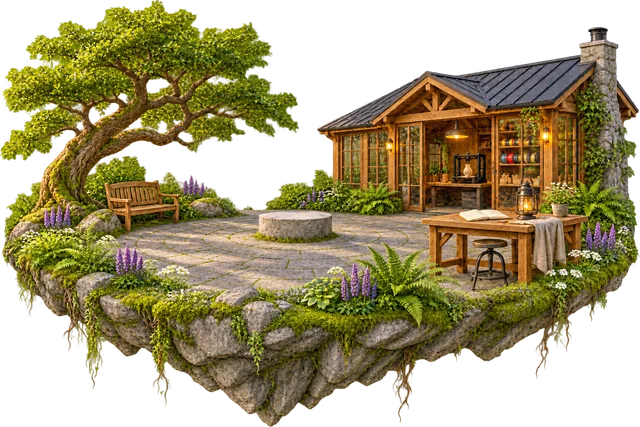
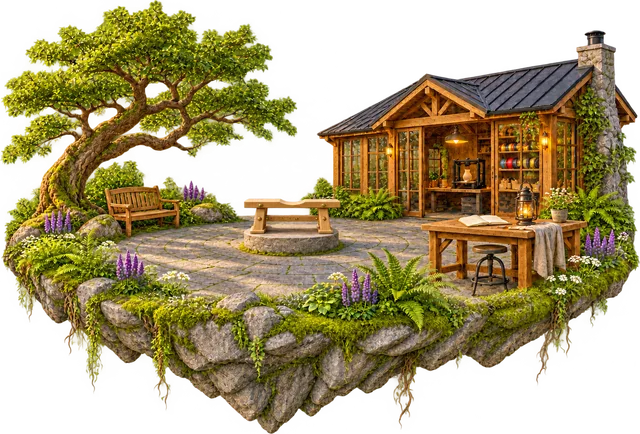
Heute-Insel mit gemaltem Holzgestell: Ring sitzt in der Mulde, gezeichnetes Gerüst entfernt
Neues Inselbild des Nutzers (Granitinsel mit kleinem Holzgestell), Maße in ISLAND_META, ASSET_VERSION 20261107d, Ringposition neu vermessen; Doku angepasst.

Claude-Session: https://claude.ai/code/session_01Bea5Y1uKo4kG3DT62iBBFM

diff --git a/src/ui/About.tsx b/src/ui/About.tsx
@@ -72,7 +72,7 @@ export function EinstellungenSheet() {
   );
 }
 
-const OK = ['Alle 17 Inselbilder vom Nutzer erzeugt (Welten, Projektwelten, Rahmen für eigene Fotos), einheitlicher heller Stil', 'Acht Projektwelten (Garten, Küche & Haushalt, Fahrzeug, Büro, Hobby, Technik, Deko, Modellbau) als Inselbilder vom Nutzer, werden im Projektformular nach Bereich und Art vorgeschlagen', 'Jahreszeiten: automatisch nach Datum (oder fest in den Einstellungen) färben die Inseln, legen eine Stimmung über die Landschaft, lassen Blütenblätter, Pollen und Glühwürmchen, Laub oder Schneestaub treiben; Startwelt zeigt Jahreszeit und Tage bis zur nächsten, Wetterwelt gibt Werkstatt-Tipps je Jahreszeit', 'Tagesportal auf der Heute-Insel: ein gezeichneter Eichenring mit Messing-Einlage auf dem Steinsockel, innen durchsichtig, und zeigt am Rand den Sonnenweg von Aufgang bis Untergang, in der Mitte die Uhr und den nächsten Lichtwechsel', 'Mobiler Begleiter: unter 900 px Breite eine eigene einfache Oberfläche mit Reitern Start, Heute, Projekte, Material, Mehr (gleiche Daten, gleiche Formulare); Tablet quer und Desktop zeigen die räumliche Werkstatt', 'Startwelt (Variante B): Uhr, Datum, Begrüßung, Wetter, Spruch, Landschaft nach Tageszeit, Inseln als Orientierung, Scrollen = Erkunden', 'Räumliche Navigation: Welten als große Inseln, aktive Welt vorn, Parallaxe, Wolken unter den Inseln, Tag/Dämmerung/Nacht nach echtem Sonnenstand', 'Echtes Wetter von Open-Meteo: aktuell, 24 h mit Temperaturkurve, 7 Tage, Tageslicht, Luftdruck, UV, Wetter-Hinweise (Regelbasiert), beste 8 Stunden nach PV-Regel des Plans', 'Projekt-Flow in fünf Schritten: Idee, Projektart (11 Arten + eigene), Einsatzbereiche (12 + eigene), Projektwelt (3 Vorschläge, eigenes Bild mit Rahmen), Details; Meilenstein-Vorlagen je Projektart; Lichtmoment im Karussell', 'Projekte-Welt: Karussell, Status an der Insel (Bereit/Blockiert/Geplant), Fortschritt, Chips, Aktuelles im Projekt, Ähnliche Projekte, Filter mit Zählern', 'Innenwelt rund um die Insel: Meilensteine, Versionen (Vergleich), Material, Drucke, Dateien, Aufgaben (mit Checklisten-Vorlagen), Werkzeuge, Bilder/3D/Notizen, Historie; Vollansichten als Seitenpanel', 'Drucke planen, Warteschlange mit Bereit/Blockiert und Wartegrund, Ergebnis Erfolg/Nacharbeit/Fehldruck (Nacharbeit → Aufgabe), Eingang mit Projektvorschlägen (hoch/mittel/niedrig), neues Projekt aus Druck, Ignorieren', 'AMS-Slots mit Füllstand, Statistiken 30 Tage, Energie-Messwerte (Messung ≠ Schätzung), Kalibrierungs-Vorlagen am Gerät', 'Material: Rollen einzeln (vorhanden/reserviert/verfügbar, Verbrauch genau einmal gebucht), Trocknung planen mit Geräteprofilen, Herstellerfarben, Produktkatalog (16) und Materialvergleich, Top-Materialien, Einkaufsliste', 'Archiv: Galerie, Zeitreise, beliebte Tags, Wiederentdecken, Filter (Art, Bereich, Material, Drucker, Jahr), Vorlagen (manuell oder beim Abschluss), Erfahrungen', 'Hinweise-Glocke mit Konflikten (Wartung, Fehlmengen, Fehldruck ohne Folge, leere Rollen, Eingang, fehlendes Werkzeug, Final-Version → Abschluss), Halo an blockierten Inseln', 'Papierkorb mit Wiederherstellen, Export/Import als JSON, Demodaten zurücksetzen, Speicheranzeige, Einstellungen (Name, Thema, Bewegung, Parallaxe, Hinweise, Standarddrucker, Materialien, PV, Strompreis)', 'Suche mit Strg+K über Projekte, Versionen, Aufgaben, Drucke, Rollen, Geräte, Historie; zuletzt genutzt gewichtet'];
+const OK = ['Alle 17 Inselbilder vom Nutzer erzeugt (Welten, Projektwelten, Rahmen für eigene Fotos), einheitlicher heller Stil', 'Acht Projektwelten (Garten, Küche & Haushalt, Fahrzeug, Büro, Hobby, Technik, Deko, Modellbau) als Inselbilder vom Nutzer, werden im Projektformular nach Bereich und Art vorgeschlagen', 'Jahreszeiten: automatisch nach Datum (oder fest in den Einstellungen) färben die Inseln, legen eine Stimmung über die Landschaft, lassen Blütenblätter, Pollen und Glühwürmchen, Laub oder Schneestaub treiben; Startwelt zeigt Jahreszeit und Tage bis zur nächsten, Wetterwelt gibt Werkstatt-Tipps je Jahreszeit', 'Tagesportal auf der Heute-Insel: ein gezeichneter Eichenring mit Messing-Einlage im gemalten Holzgestell, innen durchsichtig, und zeigt am Rand den Sonnenweg von Aufgang bis Untergang, in der Mitte die Uhr und den nächsten Lichtwechsel', 'Mobiler Begleiter: unter 900 px Breite eine eigene einfache Oberfläche mit Reitern Start, Heute, Projekte, Material, Mehr (gleiche Daten, gleiche Formulare); Tablet quer und Desktop zeigen die räumliche Werkstatt', 'Startwelt (Variante B): Uhr, Datum, Begrüßung, Wetter, Spruch, Landschaft nach Tageszeit, Inseln als Orientierung, Scrollen = Erkunden', 'Räumliche Navigation: Welten als große Inseln, aktive Welt vorn, Parallaxe, Wolken unter den Inseln, Tag/Dämmerung/Nacht nach echtem Sonnenstand', 'Echtes Wetter von Open-Meteo: aktuell, 24 h mit Temperaturkurve, 7 Tage, Tageslicht, Luftdruck, UV, Wetter-Hinweise (Regelbasiert), beste 8 Stunden nach PV-Regel des Plans', 'Projekt-Flow in fünf Schritten: Idee, Projektart (11 Arten + eigene), Einsatzbereiche (12 + eigene), Projektwelt (3 Vorschläge, eigenes Bild mit Rahmen), Details; Meilenstein-Vorlagen je Projektart; Lichtmoment im Karussell', 'Projekte-Welt: Karussell, Status an der Insel (Bereit/Blockiert/Geplant), Fortschritt, Chips, Aktuelles im Projekt, Ähnliche Projekte, Filter mit Zählern', 'Innenwelt rund um die Insel: Meilensteine, Versionen (Vergleich), Material, Drucke, Dateien, Aufgaben (mit Checklisten-Vorlagen), Werkzeuge, Bilder/3D/Notizen, Historie; Vollansichten als Seitenpanel', 'Drucke planen, Warteschlange mit Bereit/Blockiert und Wartegrund, Ergebnis Erfolg/Nacharbeit/Fehldruck (Nacharbeit → Aufgabe), Eingang mit Projektvorschlägen (hoch/mittel/niedrig), neues Projekt aus Druck, Ignorieren', 'AMS-Slots mit Füllstand, Statistiken 30 Tage, Energie-Messwerte (Messung ≠ Schätzung), Kalibrierungs-Vorlagen am Gerät', 'Material: Rollen einzeln (vorhanden/reserviert/verfügbar, Verbrauch genau einmal gebucht), Trocknung planen mit Geräteprofilen, Herstellerfarben, Produktkatalog (16) und Materialvergleich, Top-Materialien, Einkaufsliste', 'Archiv: Galerie, Zeitreise, beliebte Tags, Wiederentdecken, Filter (Art, Bereich, Material, Drucker, Jahr), Vorlagen (manuell oder beim Abschluss), Erfahrungen', 'Hinweise-Glocke mit Konflikten (Wartung, Fehlmengen, Fehldruck ohne Folge, leere Rollen, Eingang, fehlendes Werkzeug, Final-Version → Abschluss), Halo an blockierten Inseln', 'Papierkorb mit Wiederherstellen, Export/Import als JSON, Demodaten zurücksetzen, Speicheranzeige, Einstellungen (Name, Thema, Bewegung, Parallaxe, Hinweise, Standarddrucker, Materialien, PV, Strompreis)', 'Suche mit Strg+K über Projekte, Versionen, Aufgaben, Drucke, Rollen, Geräte, Historie; zuletzt genutzt gewichtet'];
 const DEMO = ['Druckerstatus und Fortschritt (zeitbasiert simuliert, keine Geräteanbindung)', 'Solarstrom und Stromschätzung (Formel kWp × Einstrahlung / 1000 × 0,82), Wetter-Hinweise sind Regeln, keine amtlichen Warnungen', 'Kalendertermine (Beispiele), Dateien und 3D-Modelle (Platzhalter; eigene Fotos werden gespeichert)', 'Projektvorschläge im Eingang (einfacher Namensabgleich)', 'Landschaft wechselt nach echtem Sonnenstand (Morgendämmerung, Sonnenaufgang, Morgen, Mittag, Nachmittag, goldene Stunde, Sonnenuntergang, blaue Stunde, Mondnacht) und bei Nebel, Regen oder bedecktem Himmel nach dem echten Wetter'];
 const LATER = ['Anmeldung, persönliche Freigabe, Rollen (Eigentümer/Bearbeiter/Leser), Synchronisation, Offline-Abgleich', 'Entwicklungszweige (V3A/V3B), Merge mit Änderungsbericht, räumliche Zeitreise, Wiederherstellen alter Zustände', 'Lebendige Vorlagen und ähnliche Projekte mit selektiver Übernahme und Konfliktansicht', 'STL/3MF-Betrachter und automatische Renders, Slicer-Import, Druckeranbindung, Kameras, Sensoren, reale PV-Daten, dynamische Stromtarife', 'Natürliche Sprache in der Suche, Werkstattkalender (Woche/Monat), externe Kalender, Push, installierbare App', 'Gerätevorlagen (X2D, A1, AMS 2 Pro, AMS HT), Düsenverwaltung, Diagnose mit Symptomen, freie Ortswahl, Etiketten/QR-Erkennung, Demomodus'];
 

diff --git a/src/ui/Tagesportal.tsx b/src/ui/Tagesportal.tsx
@@ -13,25 +13,11 @@ function arc(from: number, to: number, r: number) {
   const [x1, y1] = pt(from, r); const [x2, y2] = pt(to, r);
   return `M ${f(x1)} ${f(y1)} A ${r} ${r} 0 ${to - from > 12 ? 1 : 0} 1 ${f(x2)} ${f(y2)}`;
 }
-/** Wooden stand under the ring: a low trestle on the stone pedestal (sill, two posts, cross bar) and a beam on top; brass bolts at the joints. No side holders. */
-const CRADLE = (() => {
-  const beam = 'M 42 191 L 158 191 L 158 198.5 L 42 198.5 Z';
-  // the trestle under the beam, down to the stone pedestal: sill, two slanted posts, a cross bar; low, with top and side faces so it reads as solid wood
-  const postL = 'M 56 198 L 63 198 L 69 218 L 62 218 Z'; const postR = 'M 144 198 L 137 198 L 131 218 L 138 218 Z';
-  const cross = 'M 58 206 L 142 206 L 142 210 L 58 210 Z';
-  const sill = 'M 52 218 L 148 218 L 148 223 L 52 223 Z';
-  const parts = [sill, postL, postR, cross, beam];
-  // oblique faces (offset +4 / -3): lit tops and shaded right sides, plus the rear pair of posts
-  const tops = ['M 52 218 L 148 218 L 152 215 L 56 215 Z', 'M 58 206 L 142 206 L 146 203 L 62 203 Z', 'M 42 191 L 158 191 L 162 188 L 46 188 Z', 'M 56 198 L 63 198 L 67 195 L 60 195 Z', 'M 137 198 L 144 198 L 148 195 L 141 195 Z'];
-  const sides = ['M 148 218 L 152 215 L 152 220 L 148 223 Z', 'M 142 206 L 146 203 L 146 207 L 142 210 Z', 'M 158 191 L 162 188 L 162 195.5 L 158 198.5 Z', 'M 63 198 L 67 195 L 73 215 L 69 218 Z', 'M 144 198 L 148 195 L 142 215 L 138 218 Z'];
-  const rear = ['M 60 195 L 67 195 L 73 215 L 66 215 Z', 'M 148 195 L 141 195 L 135 215 L 142 215 Z', 'M 56 215 L 152 215 L 152 220 L 56 220 Z'];
-  return { parts, tops, sides, rear, bolts: [[48, 194.8], [152, 194.8], [64, 208], [136, 208], [58, 220.5], [142, 220.5]] as [number, number][] };
-})();
 /** Night-side stars on the inner band (fixed hours, only those outside daylight are drawn). */
 const STAR_HOURS = [0.6, 1.8, 3.1, 4.4, 20.4, 21.7, 22.9];
 
 /**
- * The Tagesportal: a turned oak ring with a brass inlay, standing on the stone pedestal of the Heute island. The inside stays
+ * The Tagesportal: a turned oak ring with a brass inlay, resting in the notch of the wooden stand painted on the Heute island. The inside stays
  * transparent (the real landscape shows through). Natural materials only: oak with real grain (turbulence filter), a soft sheen,
  * brass edge; inside the inlay the sun's path from sunrise (left) to sunset (right) glows like amber, the passed part bright,
  * the night side dark slate with small stars; a warm sun or a pale moon marks now. Centre: the clock, and (not in compact mode) the next change of light.
@@ -57,7 +43,6 @@ export function Tagesportal({ compact = false, turn = 0, lean = 0 }: { compact?:
         {/* the body of the ring: slices stacked behind the front face give it real thickness once the ring is turned in perspective */}
         {Array.from({ length: 7 }, (_, i) => (
           <svg key={i} className="portal__depth" viewBox="0 0 200 200" width="100%" height="100%" aria-hidden style={{ transform: `translateZ(${-(i + 1) * 1.4}px)` }}>
-            {CRADLE.parts.map((d, k) => <path key={k} d={d} fill={`rgba(${58 - i * 5},${34 - i * 3},${12 - i},1)`} />)}
             <circle cx="100" cy="100" r="93" fill="none" stroke={i < 6 ? `rgba(${70 - i * 6},${40 - i * 4},${14 - i},1)` : 'rgba(30,16,4,1)'} strokeWidth="11" />
             <circle cx="100" cy="100" r="98.3" fill="none" stroke="rgba(0,0,0,.35)" strokeWidth=".8" />
           </svg>
@@ -96,14 +81,6 @@ export function Tagesportal({ compact = false, turn = 0, lean = 0 }: { compact?:
           <circle cx="100" cy="100" r="92" fill="none" stroke={glow} strokeWidth="12" filter="url(#portalBloom)" opacity=".5" />
           <circle cx="100" cy="100" r="93" fill="none" stroke="rgba(0,0,0,.38)" strokeWidth="12" filter="url(#portalSoft)" />
 
-          {/* the wooden mount: trestle on the pedestal (rear posts first), beam, cheeks and slats; oak with grain, lit top faces and shaded side faces */}
-          <g>
-            {CRADLE.rear.map((d, k) => <path key={k} d={d} fill="rgba(62,36,12,1)" />)}
-            {CRADLE.parts.map((d, k) => <g key={k}><path d={d} fill="url(#portalOak)" /><path d={d} fill="#000" filter="url(#portalGrain)" opacity=".8" /><path d={d} fill="#000" filter="url(#portalGrainDark)" opacity=".6" /><path d={d} fill="none" stroke="rgba(255,236,200,.4)" strokeWidth=".7" /><path d={d} fill="none" stroke="rgba(30,15,3,.55)" strokeWidth=".5" transform="translate(.4 .6)" /></g>)}
-            {CRADLE.tops.map((d, k) => <g key={k}><path d={d} fill="url(#portalOak)" /><path d={d} fill="rgba(255,232,185,.42)" /><path d={d} fill="none" stroke="rgba(60,34,10,.5)" strokeWidth=".4" /></g>)}
-            {CRADLE.sides.map((d, k) => <g key={k}><path d={d} fill="url(#portalOak)" /><path d={d} fill="rgba(20,10,2,.48)" /><path d={d} fill="none" stroke="rgba(30,15,3,.5)" strokeWidth=".4" /></g>)}
-          </g>
-
           {/* the oak ring: turned wood with grain, a soft sheen on the upper left, bevel edges, brass on the inner lip */}
           <circle cx="100" cy="100" r="93" fill="none" stroke="url(#portalOak)" strokeWidth="11" />
           <circle cx="100" cy="100" r="93" fill="none" stroke="#000" strokeWidth="11" filter="url(#portalGrain)" opacity=".85" />
@@ -117,8 +94,6 @@ export function Tagesportal({ compact = false, turn = 0, lean = 0 }: { compact?:
           <circle cx="100" cy="100" r="90.3" fill="none" stroke="rgba(22,10,2,.5)" strokeWidth="2.2" filter="url(#portalSoft)" />
           <circle cx="100" cy="100" r="93" fill="none" stroke="url(#portalFar)" strokeWidth="11" />
           <circle cx="100" cy="100" r="93" fill="none" stroke="url(#portalOakHi)" strokeWidth="9" opacity=".7" />
-          {/* brass bolts at every joint of the mount */}
-          {CRADLE.bolts.map(([x, y], k) => <g key={k}><circle cx={f(x)} cy={f(y)} r="2.1" fill="url(#portalBrass)" stroke="rgba(40,22,6,.6)" strokeWidth=".4" /><circle cx={f(x - .6)} cy={f(y - .6)} r=".7" fill="rgba(255,245,215,.8)" /></g>)}
           <circle cx="100" cy="100" r="98.2" fill="none" stroke="rgba(255,235,200,.55)" strokeWidth=".9" />
           <circle cx="100" cy="100" r="98.8" fill="none" stroke="rgba(40,22,6,.5)" strokeWidth=".6" />
           <circle cx="100" cy="100" r="87.2" fill="none" stroke="url(#portalBrass)" strokeWidth="2.2" />

diff --git a/src/styles/global.css b/src/styles/global.css
@@ -396,13 +396,13 @@ p { margin: 0; }
 /* ---------- Heute info ring: floating glass ring over the island platform ---------- */
 /* standing ring: laid into the painted gold ring of the Heute island (measured: centre 43.5 % / 30.7 %, height 37.4 % of the island) */
 
-/* ---- Tagesportal: oak ring on a trestle on the stone pedestal of the Heute island (pedestal top at 45.9 % / 51.3 % of the sprite; the trestle is drawn below the box) ---- */
-.portal { position: absolute; left: 33.9%; top: 11.6%; width: 24%; aspect-ratio: 1; pointer-events: none; animation: fade var(--t-mid) var(--ease) both; container-type: inline-size; perspective: 520px; perspective-origin: 50% 40%; }
+/* ---- Tagesportal: oak ring resting in the notch of the painted wooden stand on the Heute island (notch measured at 45 % / 46.5 % of the sprite) ---- */
+.portal { position: absolute; left: 33%; top: 11.4%; width: 24%; aspect-ratio: 1; pointer-events: none; animation: fade var(--t-mid) var(--ease) both; container-type: inline-size; perspective: 520px; perspective-origin: 50% 40%; }
 .portal__tilt { position: absolute; inset: 0; transform-origin: 50% 50%; transform-style: preserve-3d; filter: drop-shadow(0 6px 10px rgba(0,0,0,.35)); }
 .portal__depth { position: absolute; inset: 0; overflow: visible; }
-.portal__foot { position: absolute; left: 24%; right: 24%; top: 108%; height: 7%; border-radius: 50%; background: radial-gradient(50% 50% at 50% 50%, rgba(20,12,0,.5), transparent 70%); filter: blur(2px); }
+.portal__foot { position: absolute; left: 30%; right: 30%; top: 96.5%; height: 6%; border-radius: 50%; background: radial-gradient(50% 50% at 50% 50%, rgba(20,12,0,.5), transparent 70%); filter: blur(2px); }
 /* light of the ring spilling onto the pedestal and the terrace */
-.portal__pool { position: absolute; left: 8%; right: 8%; top: 90%; height: 38%; border-radius: 50%; background: radial-gradient(50% 50% at 50% 45%, rgba(255,196,110,.3), rgba(255,170,80,.1) 45%, transparent 72%); filter: blur(5px); animation: portal-breathe 6s ease-in-out infinite; }
+.portal__pool { position: absolute; left: 8%; right: 8%; top: 82%; height: 38%; border-radius: 50%; background: radial-gradient(50% 50% at 50% 45%, rgba(255,196,110,.3), rgba(255,170,80,.1) 45%, transparent 72%); filter: blur(5px); animation: portal-breathe 6s ease-in-out infinite; }
 .portal[data-day="false"] .portal__pool { background: radial-gradient(50% 50% at 50% 45%, rgba(170,195,255,.26), rgba(140,170,255,.08) 45%, transparent 72%); }
 .portal__centre { position: absolute; left: 50%; top: 50%; transform: translate(-50%, -54%); text-align: center; color: #fff; text-shadow: 0 2px 10px rgba(0,0,0,.75), 0 0 2px rgba(0,0,0,.6), 0 0 14px rgba(255,220,150,.25); white-space: nowrap; }
 .portal__centre b { display: block; font-size: clamp(12px, 17cqw, 40px); font-weight: 700; letter-spacing: -.02em; line-height: 1; }

diff --git a/src/scene/Island.tsx b/src/scene/Island.tsx
@@ -6,7 +6,7 @@ export const ISLAND_META: Record<LibraryIsland, { w: number; h: number; disc?: {
   werkstatt: { w: 1098, h: 1227 }, elektronik: { w: 1098, h: 1226 }, ideen: { w: 1094, h: 1224 },
   rahmen: { w: 1094, h: 1190 }, staffelei: { w: 1203, h: 1123 },
   // the six main islands (wide format, from the user's image package of 7 Nov 2026)
-  heute: { w: 1523, h: 1015 }, projekte: { w: 1361, h: 841 }, druck: { w: 1483, h: 943 }, material: { w: 1506, h: 1003 }, wetter: { w: 1401, h: 939 }, archiv: { w: 1481, h: 881 },
+  heute: { w: 1390, h: 942 }, projekte: { w: 1361, h: 841 }, druck: { w: 1483, h: 943 }, material: { w: 1506, h: 1003 }, wetter: { w: 1401, h: 939 }, archiv: { w: 1481, h: 881 },
   drucker: { w: 1081, h: 1188 },
   'projekt-garten': { w: 1081, h: 1167 }, 'projekt-haushalt': { w: 1080, h: 1168 }, 'projekt-fahrzeug': { w: 1080, h: 1209 }, 'projekt-buero': { w: 1080, h: 1186 },
   'projekt-hobby': { w: 1079, h: 1204 }, 'projekt-technik': { w: 1086, h: 1208 }, 'projekt-deko': { w: 1081, h: 1196 }, 'projekt-modell': { w: 1080, h: 1195 },
@@ -20,7 +20,7 @@ export const FRAME_BOX: Partial<Record<LibraryIsland, CSSProperties>> = {
   staffelei: { left: '28%', right: '28%', top: '21.5%', bottom: '46.5%' },
 };
 /** Bump when island sprites change: the CDN and browsers cache /img/* for a year (immutable), so the URL must change. */
-export const ASSET_VERSION = '20261107c';
+export const ASSET_VERSION = '20261107d';
 export const islandSrc = (id: LibraryIsland, w: 1254 | 640 | 256) => `/img/insel-${id}-${w}.webp?v=${ASSET_VERSION}`;
 
 export interface IslandProps {

diff --git a/docs/Brainstorm-Info.md b/docs/Brainstorm-Info.md
@@ -98,7 +98,7 @@ Demodaten: fünf aktive Projekte (Sensorhalter Garten, Bewässerungsclip, Werkze
 
 **Landschaften (1672 × 941, Bergsee mit gleichbleibendem Bildaufbau):** je Jahreszeit vier Bilder (früher Morgen, Mittag, Sonnenuntergang, Nacht) für Frühling, Sommer, Herbst und Winter, dazu ein regennasser Bergsee für bedeckt, Nebel und Regen. Die zwölf Licht-Looks (Dämmerung bis Mondnacht) steuern weiter Sonnenstand, Himmelsfarbe und Wolken und werden auf die vier Tagesbilder der aktuellen Jahreszeit abgebildet (`src/scene/looks.ts`, `LOOK_PHASE`). Die früheren zwölf Tal-Landschaften liegen in `reference/alte-assets/`.
 
-**Hauptinseln (1536 × 1024, freigestellt geliefert):** Heute (Garten mit Bank, Hütte und leerem Steinsockel; darauf zeichnet die App das Tagesportal als Eichenring mit Messing-Einlage), Projekte (Werkstatthütte mit Baum), 3D-Druck (Druckwerkstatt mit AMS), Material (Spulenregal), Wetter (Kuppel, Wettermast, Wasserfall), Archiv (Bibliothek mit Vitrinen).
+**Hauptinseln (1536 × 1024, freigestellt geliefert):** Heute (Garten mit Bank, Hütte und Holzgestell auf dem Steinsockel; in dessen Mulde zeichnet die App das Tagesportal als Eichenring mit Messing-Einlage), Projekte (Werkstatthütte mit Baum), 3D-Druck (Druckwerkstatt mit AMS), Material (Spulenregal), Wetter (Kuppel, Wettermast, Wasserfall), Archiv (Bibliothek mit Vitrinen).
 
 **Bibliotheksinseln für Projekte (1254 × 1254):** Werkstatt, Elektronik, Ideen, Drucker, acht Projektwelten (Garten, Haushalt, Fahrzeug, Büro, Hobby, Technik, Deko, Modellbau) sowie 16 weitere Motive: Haus & Bauen, Sammlung, Druckhütte, Pergola-Garten, Holzwerkstatt, Computerstudio, Elektroniklabor, Spulenlager, Solarpavillon, Metallwerkstatt, Atelier, Observatorium, Planungsgarten, Garten mit Ring, Werkstatt-Pavillon; für eigene Fotos zwei Rahmen-Inseln (Holztafel, Staffelei).
 

diff --git a/README.md b/README.md
@@ -18,7 +18,7 @@ Die räumliche Inselwelt ist für Desktop und Tablet quer gebaut. Unter 900 px B
 
 ## Tagesportal auf der Heute-Insel
 
-Die Heute-Insel hat einen leeren Steinsockel; `src/ui/Tagesportal.tsx` zeichnet darauf einen stehenden Eichenring mit Messing-Einlage als Fenster auf den Tag: innen bleibt er durchsichtig (die echte Landschaft scheint durch); am Rand der Sonnenweg von Aufgang (links) bis Untergang (rechts) mit leuchtendem vergangenem Teil und einer Sonne oder einem Mond als Jetzt-Marke; in der Mitte die Uhr und der nächste Lichtwechsel. Position und Neigung stehen in `global.css` (`.portal`) und in den Props `turn` und `lean`. Auf der Startseite läuft es als `compact` nur mit Uhr.
+Die Heute-Insel trägt auf dem Steinsockel ein gemaltes Holzgestell; `src/ui/Tagesportal.tsx` setzt in dessen Mulde einen stehenden Eichenring mit Messing-Einlage als Fenster auf den Tag: innen bleibt er durchsichtig (die echte Landschaft scheint durch); am Rand der Sonnenweg von Aufgang (links) bis Untergang (rechts) mit leuchtendem vergangenem Teil und einer Sonne oder einem Mond als Jetzt-Marke; in der Mitte die Uhr und der nächste Lichtwechsel. Position und Neigung stehen in `global.css` (`.portal`) und in den Props `turn` und `lean`. Auf der Startseite läuft es als `compact` nur mit Uhr.
 
 ## Domains
 
